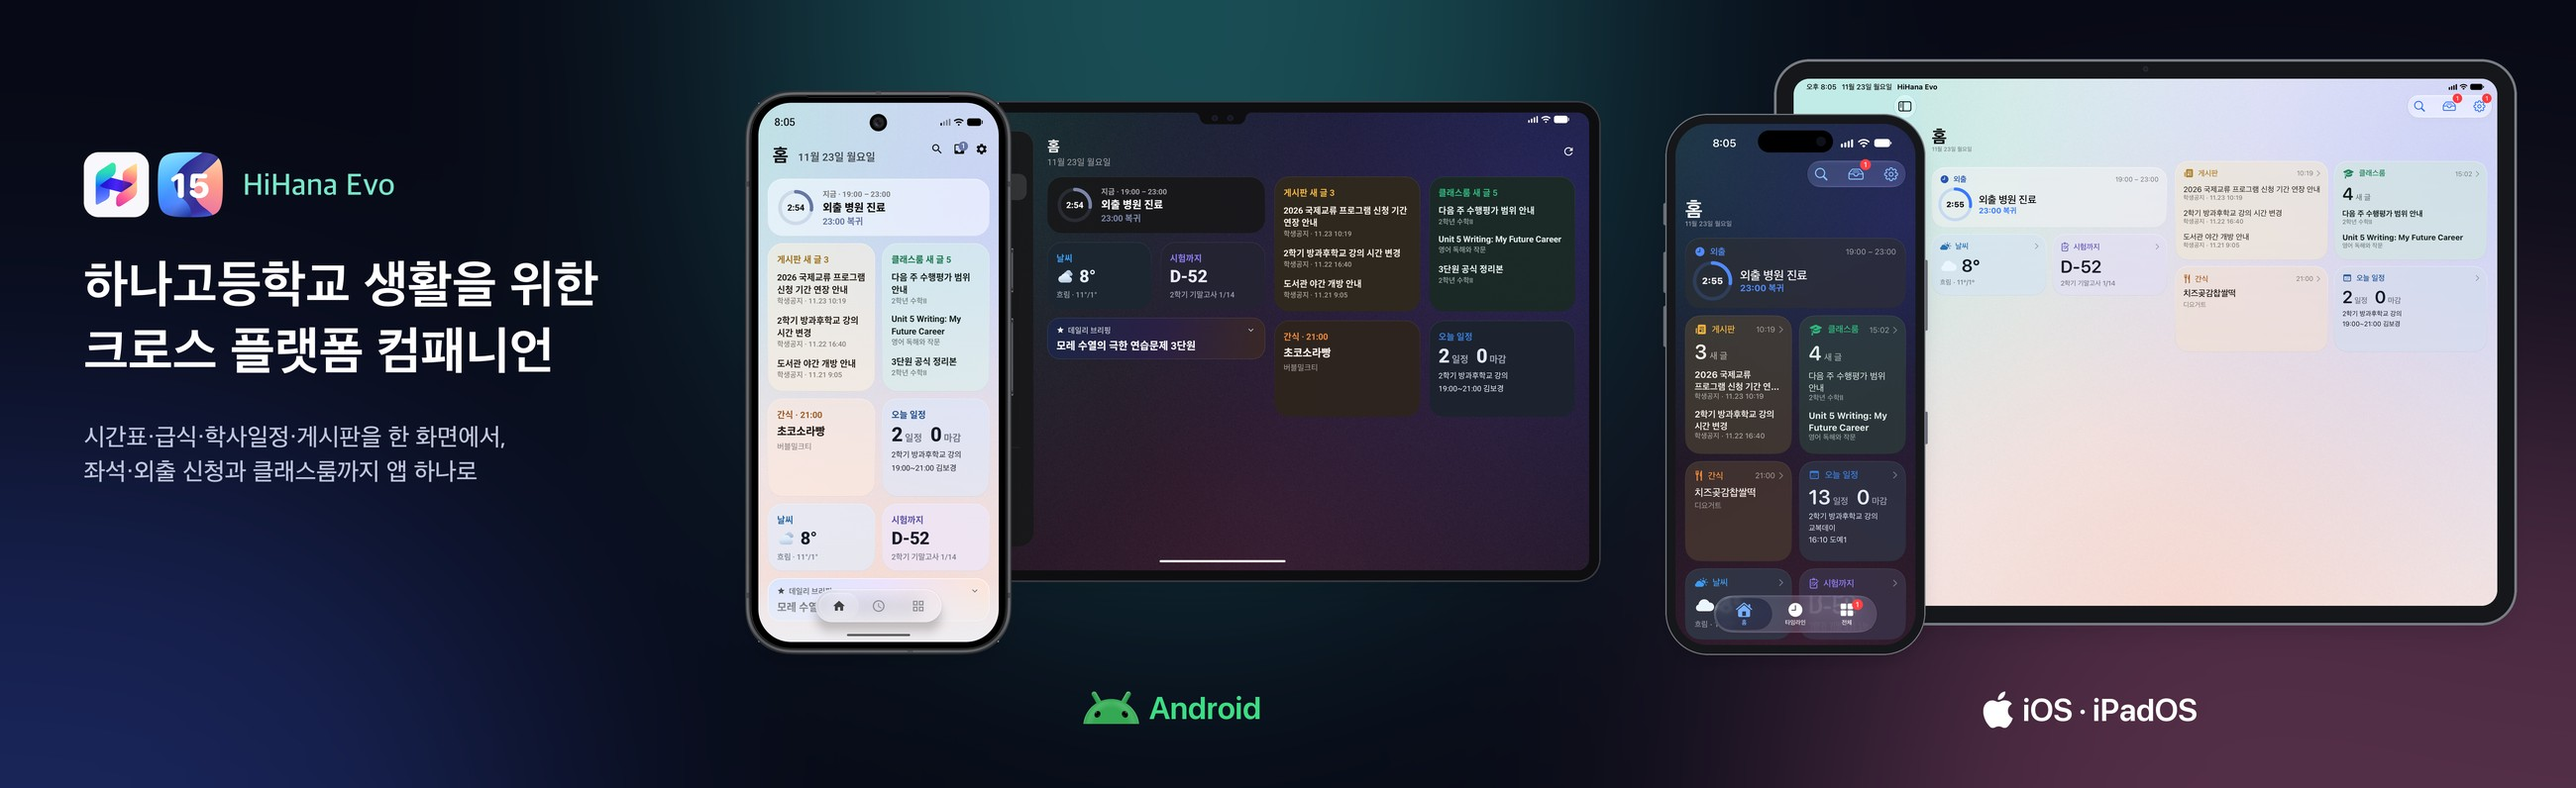
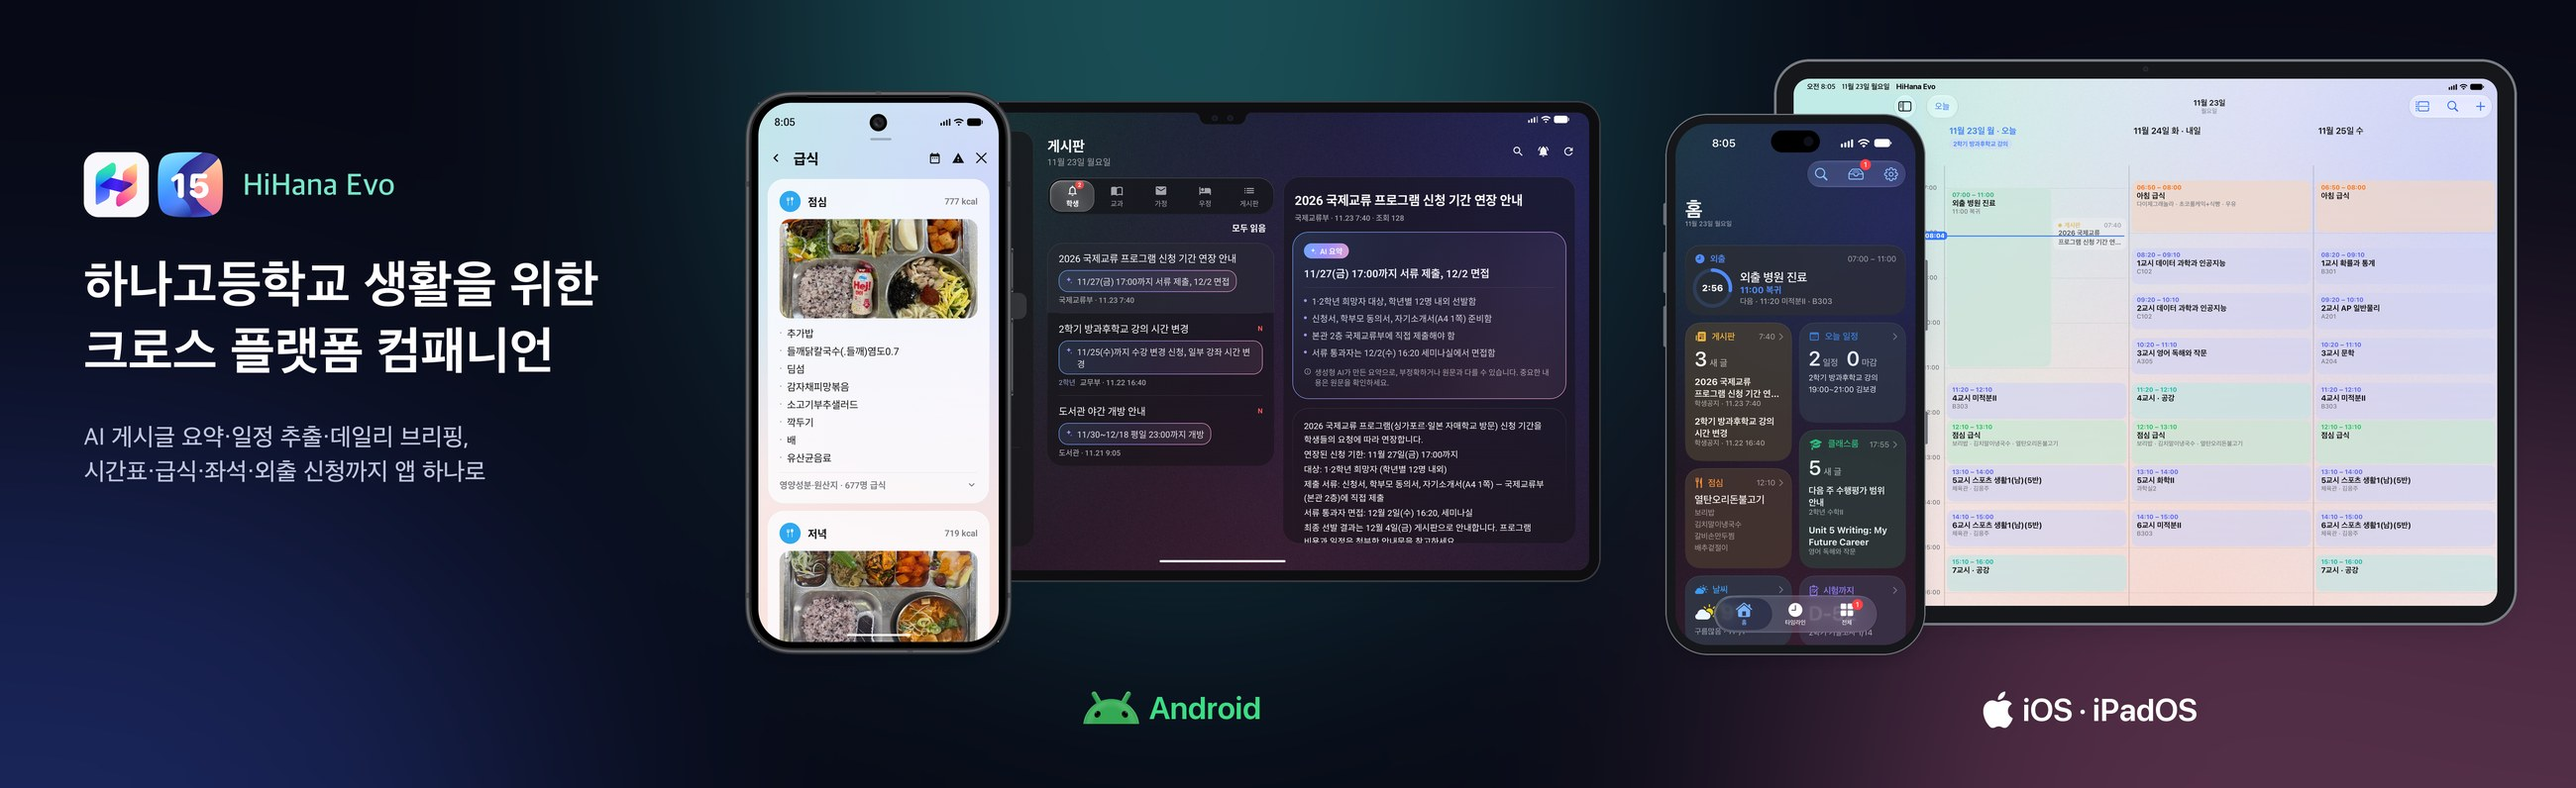
README: AI 기능을 맨 앞에, 안드로이드 화면과 기능 설명, 기기마다 다른 화면의 배너

diff --git a/README.md b/README.md
@@ -1,5 +1,5 @@
 <p align="center">
-  <img src=".github/assets/banner.jpg" alt="HiHana Evo — 안드로이드 폰·태블릿과 아이폰·아이패드의 홈 화면" width="100%">
+  <img src=".github/assets/banner.jpg" alt="HiHana Evo — 픽셀(급식)·갤럭시 탭(게시판 AI 요약)·아이폰(홈)·아이패드(타임라인)" width="100%">
 </p>
 
 <p align="center">
@@ -10,29 +10,151 @@
 
 <p align="center">
   <b>하나고등학교 생활을 위한 크로스 플랫폼 컴패니언</b><br>
-  시간표·급식·학사일정·게시판을 한 화면에서, 좌석·외출 신청과 클래스룸까지 앱 하나로
+  AI가 게시글을 요약하고 일정을 뽑아 매일 아침 브리핑으로 — 시간표·급식·좌석·외출 신청까지 앱 하나로
 </p>
 
 <p align="center">
   <a href="https://github.com/Kyoohan/hihana-neo/releases/latest"><img src="https://img.shields.io/github/v/release/Kyoohan/hihana-neo?label=%EC%B5%9C%EC%8B%A0%20%EB%B2%84%EC%A0%84&color=3A7BD5" alt="최신 버전"></a>
-  <img src="https://img.shields.io/badge/Android-8.0%2B-3DDC84?logo=android&logoColor=white" alt="Android 8.0 이상">
-  <img src="https://img.shields.io/badge/iOS%20%C2%B7%20iPadOS-18%2B-000000?logo=apple&logoColor=white" alt="iOS·iPadOS 18 이상">
+  <a href="#install"><img src="https://img.shields.io/badge/Android-8.0%2B-3DDC84?logo=android&logoColor=white" alt="Android 8.0 이상 — 설치 방법"></a>
+  <a href="#install"><img src="https://img.shields.io/badge/iOS%20%C2%B7%20iPadOS-18%2B-000000?logo=apple&logoColor=white" alt="iOS·iPadOS 18 이상 — 설치 방법"></a>
   <a href="https://github.com/Kyoohan/hihana-neo/releases"><img src="https://img.shields.io/github/downloads/Kyoohan/hihana-neo/total?label=%EB%8B%A4%EC%9A%B4%EB%A1%9C%EB%93%9C&color=555" alt="다운로드 수"></a>
 </p>
 
 <p align="center">
-  <a href="#-설치">설치</a> ·
-  <a href="#-주요-기능">주요 기능</a> ·
-  <a href="#-개인정보">개인정보</a> ·
+  <a href="#ai">AI 기능</a> ·
+  <a href="#features">주요 기능</a> ·
+  <a href="#tablet">태블릿</a> ·
+  <a href="#install">설치</a> ·
+  <a href="#privacy">개인정보</a> ·
   <a href="https://github.com/Kyoohan/hihana-neo/releases">변경 사항</a> ·
-  <a href="#-저장소-구성">저장소 구성</a>
+  <a href="#structure">저장소 구성</a>
 </p>
 
 > [!NOTE]
 > 하나고 학생이 만든 비공식 앱입니다. 학교가 운영하는 앱이 아니며, 학교 학사시스템(하이하나) 계정으로 로그인해 그 정보를 보기 쉽게 정리해 보여 줍니다.
 
----
+<a id="ai"></a>
+## ✨ AI가 먼저 읽어 줍니다
 
+공지는 많고 마감은 글 속에 숨어 있습니다. HiHana Evo는 새 게시글을 생성형 AI로 요약하고, 글에 적힌 마감·행사 날짜를 찾아 일정에 올리고, 아침마다 그날 챙길 것을 브리핑으로 정리합니다.
+
+<table>
+  <tr>
+    <td align="center" valign="top" width="25%">
+      <img src=".github/assets/screens/brief.jpg" alt="데일리 브리핑" width="220"><br>
+      <b>데일리 브리핑</b><br>
+      <sub>오늘 수업과 이번 주 마감·시험을 AI가 한 단락으로 정리하고, 꼭 챙길 일정을 날짜와 함께 골라 줍니다.</sub>
+    </td>
+    <td align="center" valign="top" width="25%">
+      <img src=".github/assets/screens/board.jpg" alt="게시글 한 줄 요약" width="220"><br>
+      <b>게시글 한 줄 요약</b><br>
+      <sub>목록에서 글마다 마감·장소·대상을 한 줄로. 열어 보지 않아도 무슨 글인지 압니다.</sub>
+    </td>
+    <td align="center" valign="top" width="25%">
+      <img src=".github/assets/screens/post.jpg" alt="AI 요약 카드" width="220"><br>
+      <b>AI 요약 카드</b><br>
+      <sub>글을 열면 핵심 한 줄과 챙길 것들을 글머리표로. 원문은 그 아래 그대로 있습니다.</sub>
+    </td>
+    <td align="center" valign="top" width="25%">
+      <img src=".github/assets/screens/academic.jpg" alt="게시글에서 뽑은 일정" width="220"><br>
+      <b>게시글에서 뽑은 일정</b><br>
+      <sub>글 속 마감·행사·면접 날짜를 AI가 찾아 학사일정과 한 목록에 올립니다(노란 '게시판' 표시).</sub>
+    </td>
+  </tr>
+</table>
+
+<a id="features"></a>
+## 📱 매일 쓰는 화면
+
+<table>
+  <tr>
+    <td align="center" valign="top" width="25%">
+      <img src=".github/assets/screens/home.jpg" alt="홈" width="220"><br>
+      <b>홈</b><br>
+      <sub>지금 하는 것과 남은 시간, 다음 일정. 시간에 맞춰 급식·게시판·클래스룸 칸이 자리를 바꿉니다.</sub>
+    </td>
+    <td align="center" valign="top" width="25%">
+      <img src=".github/assets/screens/timeline.jpg" alt="타임라인" width="220"><br>
+      <b>타임라인</b><br>
+      <sub>수업·면학·급식·외출을 시각순 한 줄로, 그 시간의 게시판·클래스룸 글을 옆에. 시간·하루·주 단위.</sub>
+    </td>
+    <td align="center" valign="top" width="25%">
+      <img src=".github/assets/screens/timetable.jpg" alt="시간표" width="220"><br>
+      <b>시간표</b><br>
+      <sub>이번 주 시간표와 교시별 시각·교실. 공강도 한눈에.</sub>
+    </td>
+    <td align="center" valign="top" width="25%">
+      <img src=".github/assets/screens/meal.jpg" alt="급식" width="220"><br>
+      <b>급식</b><br>
+      <sub>아침·점심·저녁·간식과 급식 사진, 칼로리, 알레르기 표시.</sub>
+    </td>
+  </tr>
+</table>
+
+## 🏫 학교 생활
+
+<table>
+  <tr>
+    <td align="center" valign="top" width="25%">
+      <img src=".github/assets/screens/classroom.jpg" alt="구글 클래스룸" width="220"><br>
+      <b>구글 클래스룸</b><br>
+      <sub>학교 계정으로 한 번 허용하면 공지·과제·자료와 제출 상태, 다가오는 마감.</sub>
+    </td>
+    <td align="center" valign="top" width="25%">
+      <img src=".github/assets/screens/alim.jpg" alt="알리미" width="220"><br>
+      <b>알리미</b><br>
+      <sub>선생님이 보낸 알리미를 읽음 표시와 함께. 새 알리미는 알림으로.</sub>
+    </td>
+    <td align="center" valign="top" width="25%">
+      <img src=".github/assets/screens/apply.jpg" alt="신청·내역" width="220"><br>
+      <b>신청·내역</b><br>
+      <sub>면학실·도서관 좌석, 교과교실, 외출·외박, 심야면학 신청과 내역을 한곳에.</sub>
+    </td>
+    <td align="center" valign="top" width="25%">
+      <img src=".github/assets/screens/outing.jpg" alt="외출·외박 내역" width="220"><br>
+      <b>외출·외박 내역</b><br>
+      <sub>신청·승인·반려·복귀를 상태별로. 승인되거나 반려되면 바로 알림.</sub>
+    </td>
+  </tr>
+</table>
+
+## 🎨 날씨와 꾸미기
+
+<table>
+  <tr>
+    <td align="center" valign="top" width="25%">
+      <img src=".github/assets/screens/weather.jpg" alt="날씨" width="220"><br>
+      <b>날씨</b><br>
+      <sub>학교 날씨의 시간별·요일별 예보, 귀가 기간엔 서울 날씨와 귀교 시각.</sub>
+    </td>
+    <td align="center" valign="top" width="25%">
+      <img src=".github/assets/screens/display.jpg" alt="화면" width="220"><br>
+      <b>화면</b><br>
+      <sub>라이트·다크, 강조색, 배경 사진과 유리 불투명도.</sub>
+    </td>
+    <td align="center" valign="top" width="25%">
+      <img src=".github/assets/screens/personal.jpg" alt="개인화" width="220"><br>
+      <b>개인화</b><br>
+      <sub>아래 탭 막대와 아이콘 결을 취향대로.</sub>
+    </td>
+  </tr>
+</table>
+
+홈 화면 위젯과 안드로이드 Now Bar·아이폰 실시간 활동에서도 지금 수업과 남은 시간을 볼 수 있습니다.
+
+<a id="tablet"></a>
+## 🖥 태블릿·아이패드
+
+넓은 화면에서는 사이드바와 목록 | 본문 두 칸으로 바뀝니다. 게시판에서 글을 고르면 옆 칸에 AI 요약과 본문이 바로 뜹니다.
+
+<p align="center">
+  <img src=".github/assets/screens/devices-android.png" alt="안드로이드 — 픽셀 폰(급식)과 갤럭시 탭(게시판 목록과 AI 요약)" width="49%">
+  <img src=".github/assets/screens/devices-apple.png" alt="애플 — 아이폰(홈)과 아이패드(타임라인)" width="49%">
+</p>
+
+<sub>스크린샷은 안드로이드 앱의 예시 데이터(데모 모드)로 찍었습니다. 게시글·일정·시간표는 지어낸 예시이고, 급식과 날씨는 그날의 실제 값, AI 요약·브리핑은 예시 글을 요약 서버에 실제로 보내 받은 결과입니다.</sub>
+
+<a id="install"></a>
 ## 📲 설치
 
 | 기기 | 받는 곳 | 설치 방법 |
@@ -52,34 +174,21 @@ https://raw.githubusercontent.com/Kyoohan/hihana-neo/main/ios/source.json
 무료 Apple ID로 서명한 앱은 7일마다 SideStore에서 **Refresh All**로 갱신해야 합니다.
 </details>
 
-## ✨ 주요 기능
-
-| | |
-| --- | --- |
-| 🏠 **홈** | 지금 하는 것·있을 곳·남은 시간, 다음 일정. 시간에 맞춰 급식·게시판·클래스룸·오늘 일정 칸이 자리를 바꿉니다. |
-| 🕒 **타임라인** | 수업·면학·급식을 시각순 한 줄로, 그 시간의 클래스룸·게시판 글을 옆에. 시간·하루·주 단위로 봅니다. |
-| 🍱 **급식** | 아침·점심·저녁·간식, 급식 사진과 알레르기 표시, 특식을 크게. |
-| 📅 **학사일정** | 학사일정, 게시판 글 속 날짜, 클래스룸 과제 마감, 내가 직접 넣은 일정을 날짜순 한 목록으로. 시험 D-day와 데일리 브리핑까지. |
-| 📰 **게시판·알리미** | 게시판별 새 글 알림과 요약, 하이하나 전체 글 검색, 알리미 읽음 표시. |
-| 🎓 **구글 클래스룸** | 학교 계정으로 한 번 허용하면 공지·과제·자료와 제출 상태, 마감이 다가오는 할 일. |
-| 🪑 **신청·내역** | 면학실·도서관 좌석 배치도에서 바로 신청, 교과교실·외출·외박 신청과 내역, 심야면학. 외출·외박이 승인·반려되면 알림. |
-| 📱 **위젯·실시간 일정** | 홈 화면 위젯, 안드로이드 Now Bar·아이폰 실시간 활동에 남은 시간을 실시간으로. |
-| 🌤 **날씨·귀가** | 학교 날씨, 귀가 기간엔 서울 날씨와 귀교 시각. |
-| 🖥 **태블릿·아이패드** | 넓은 화면에 맞춘 사이드바와 목록 \| 본문 두 칸. |
-
+<a id="privacy"></a>
 ## 🔒 개인정보
 
 - 학사시스템 아이디·비밀번호는 **이 기기 안에만 암호화해 저장**합니다(안드로이드 키스토어 / iOS 키체인). 학교 학사시스템 말고는 어디로도 보내지 않습니다.
-- 게시글 요약·데일리 브리핑은 생성형 AI 요약 서버를 거칩니다. 설정에서 끌 수 있고, 끄면 글을 보내지 않습니다.
+- AI 요약·일정 추출은 게시글 제목과 본문을, 데일리 브리핑은 그날 수업과 일정 제목을 생성형 AI 요약 서버로 보냅니다. 설정에서 끌 수 있고, 끄면 보내지 않습니다.
 - 자세한 내용은 앱 안 **설정 › HiHana Evo 정보 › 개인정보 보호**에 있습니다.
 
+<a id="structure"></a>
 ## 🗂 저장소 구성
 
 | 폴더 | 내용 |
 | --- | --- |
 | [`android/`](android) | 안드로이드 앱 (Kotlin · Jetpack Compose) |
 | [`ios/`](ios) | 아이폰·아이패드 앱 (SwiftUI) — [만들고 실행하기](ios/README.md) |
-| [`summary-worker/`](summary-worker) | 게시글 요약·데일리 브리핑·날씨·앱 공지와 클래스룸 중계를 맡는 Cloudflare Worker |
+| [`summary-worker/`](summary-worker) | 게시글 요약·일정 추출·데일리 브리핑·날씨·앱 공지와 클래스룸 중계를 맡는 Cloudflare Worker |
 | [`classroom-bridge/`](classroom-bridge) | 구글 클래스룸 연결용 Apps Script |
 
 ---
